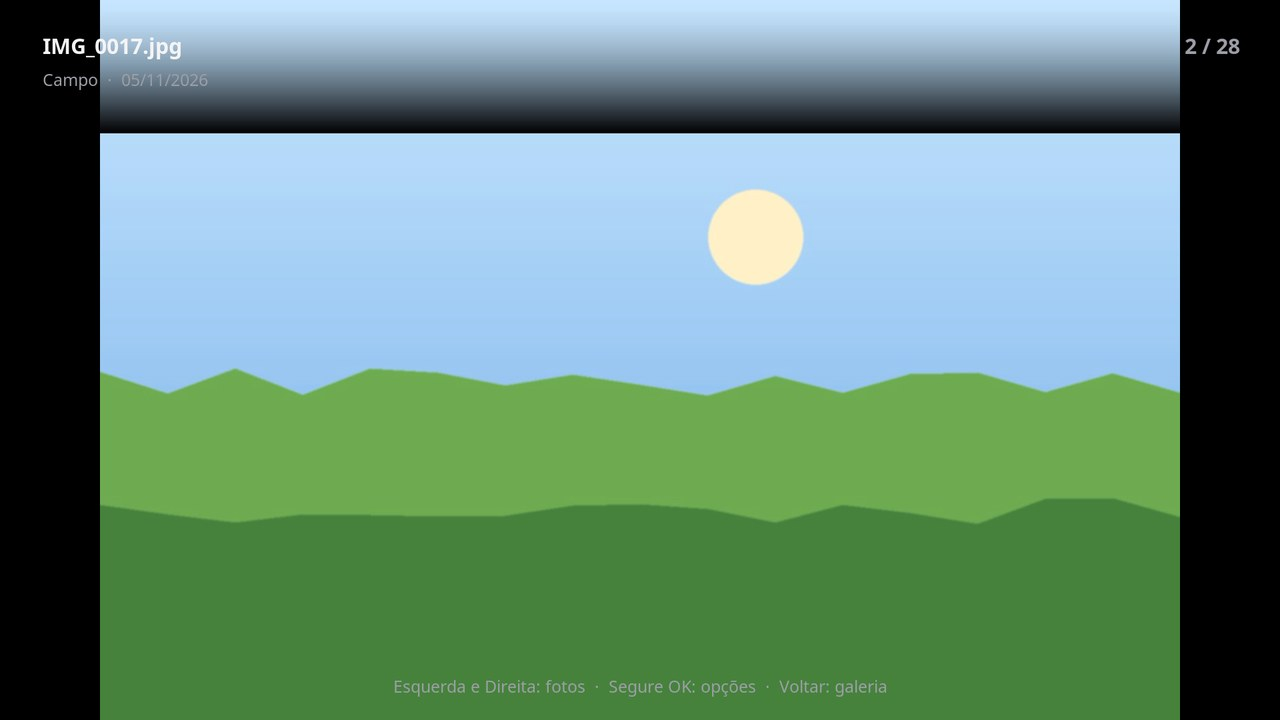
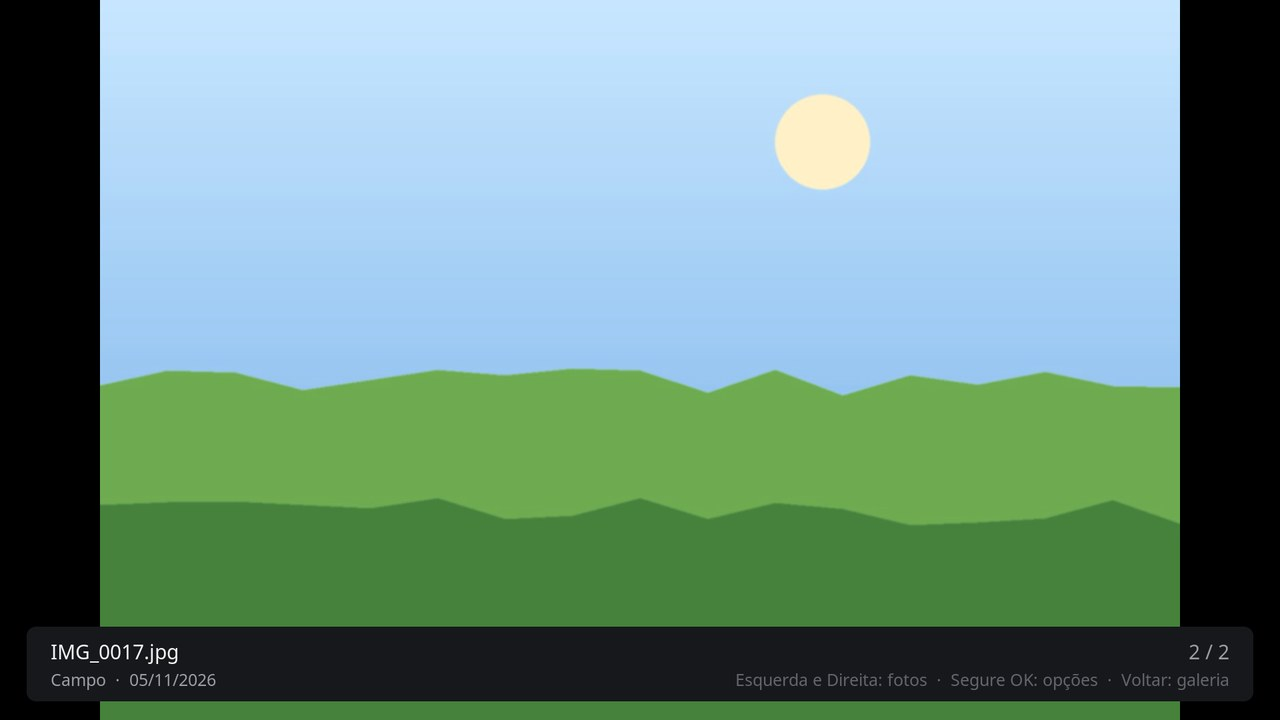
Update Easy Picture to 1.1.1: the details of a picture in full screen show in a bar at the bottom, in the colors of the theme

diff --git a/tools/generate_easy_picture_skin.py b/tools/generate_easy_picture_skin.py
@@ -103,7 +103,8 @@ def main_screen():
 
 
 def viewer_screen():
-    """A picture in full screen. Python sets the pictures; the details show for a moment after each change."""
+    """A picture in full screen. Python sets the pictures; a bar with the details shows at the bottom for a moment after
+    each change."""
     shown = "String.IsEqual(Window.Property(details),true)"
     picture = lambda control_id: f"""<control type="image" id="{control_id}">
   <left>0</left>
@@ -114,13 +115,14 @@ def viewer_screen():
   <texture background="true"></texture>
 </control>"""
     details = f"""<control type="group">
+  <animation effect="slide" start="0,40" end="0,0" time="200" tween="cubic" easing="out">Visible</animation>
   <animation effect="fade" start="0" end="100" time="200">Visible</animation>
   <animation effect="fade" start="100" end="0" time="400">Hidden</animation>{skin.visible(shown)}
-{join(image(0, 0, 1920, 200, "shade.png", "FF000000"),
-      label(64, 40, 1400, 60, "$INFO[Window.Property(name)]", "font32_title", TEXT),
-      label(64, 100, 1400, 40, "$INFO[Window.Property(album)]$INFO[Window.Property(date),  ·  ]", "font12", TEXT2),
-      label(1460, 40, 400, 60, "$INFO[Window.Property(position)]", "font32_title", TEXT2, align="right"),
-      label(64, 1010, 1792, 40, f"$ADDON[{ADDON_ID} 30060]", "font12", TEXT2, align="center"), spaces=2)}
+{join(panel(40, 940, 1840, 112, SURFACE),
+      label(76, 952, 1200, 52, "$INFO[Window.Property(name)]", "font13", TEXT),
+      label(76, 1000, 1200, 40, "$INFO[Window.Property(album)]$INFO[Window.Property(date),  ·  ]", "font12", TEXT2),
+      label(1290, 952, 554, 52, "$INFO[Window.Property(position)]", "font13", TEXT2, align="right"),
+      label(1090, 1000, 754, 40, f"$ADDON[{ADDON_ID} 30060]", "font12", TEXT3, align="right"), spaces=2)}
 </control>"""
     return join(
         image(0, 0, 1920, 1080, "white.png", "FF000000"),

diff --git a/tools/generate_easy_picture_art.py b/tools/generate_easy_picture_art.py
@@ -97,7 +97,7 @@ def main():
     # Shared textures and icons of the Easy add-ons.
     channels = os.path.join(ROOT, "script.m3u.channels", "resources", "skins", "default", "media")
     movies = os.path.join(ROOT, "script.m3u.movies", "resources", "skins", "default", "media")
-    for folder, names in ((channels, ["white.png", "panel.png"]), (movies, ["gear.png", "star.png", "shade.png"])):
+    for folder, names in ((channels, ["white.png", "panel.png"]), (movies, ["gear.png", "star.png"])):
         for name in names:
             shutil.copy2(os.path.join(folder, name), os.path.join(MEDIA, name))
 
